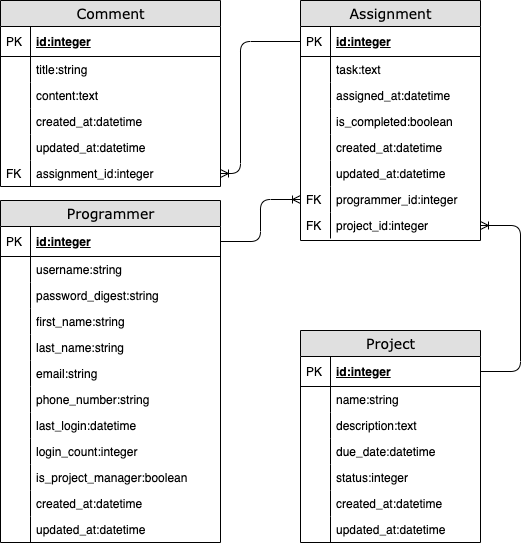
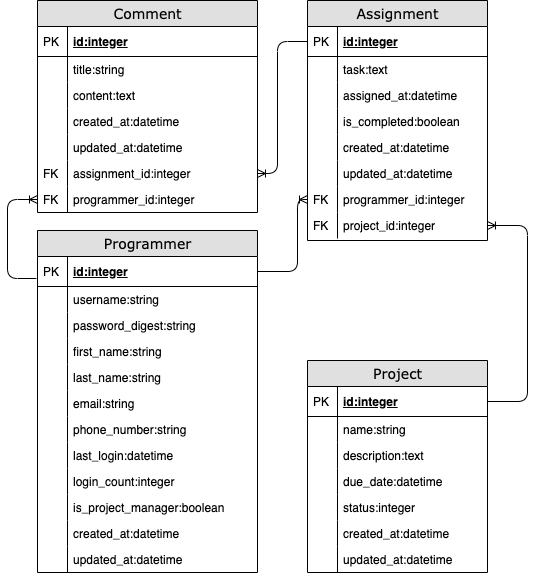
Added feature where anyone can comment on any assignment.

diff --git a/app/controllers/comments_controller.rb b/app/controllers/comments_controller.rb
@@ -8,27 +8,29 @@ class CommentsController < ApplicationController
     def new
         if_not_logged_in_redirect_to_login
 
-        redirect_if_not_current_programmer_or_project_manager(session[:programmer_id])
-
-        does_assignment_exist?(params[:id])
+        does_assignment_exist?(params[:assignment_id])
 
         @assignment = Assignment.find_by_id(params[:assignment_id])
-        @comment = Comment.new(assignment_id: params[:assignment_id])
+        @comment = @assignment.comments.new
     end
 
     def create
         if_not_logged_in_redirect_to_login
 
-        redirect_if_not_current_programmer_or_project_manager(session[:programmer_id])
-
-        assignment = current_programmer.assignments.find_by_id(params[:assignment_id])
-        comment = Comment.new(comment_params)
-        
-        comment[:assignment_id] = assignment.id
+        assignment = Assignment.find_by_id(params[:assignment_id])
+        comment = assignment.comments.new(comment_params)
+byebug
+        comment.programmer_id = current_programmer.id
+        # temp_id_holder = assignment.programmer_id
+        # assignment.update_attribute(:programmer_id, session[:programmer_id])
+        # assignment.programmer_id = session[:programmer_id]
+        # comment[:assignment_id] = assignment.id
 
         if comment.valid?
             comment.save
 
+            # assignment.update_attribute(:programmer_id, temp_id_holder)
+byebug
             redirect_to assignment_comments_path(comment.assignment_id) #@comment 
         else
             render :new
@@ -83,6 +85,6 @@ class CommentsController < ApplicationController
     private
 
     def comment_params
-        params.require(:comment).permit(:title, :content, :assignment_id)
+        params.require(:comment).permit(:title, :content, :assignment_id, :programmer_id)
     end
 end

diff --git a/db/schema.rb b/db/schema.rb
@@ -10,7 +10,7 @@
 #
 # It's strongly recommended that you check this file into your version control system.
 
-ActiveRecord::Schema.define(version: 2020_10_01_105556) do
+ActiveRecord::Schema.define(version: 2020_10_04_144743) do
 
   create_table "assignments", force: :cascade do |t|
     t.text "task"
@@ -28,6 +28,7 @@ ActiveRecord::Schema.define(version: 2020_10_01_105556) do
     t.datetime "updated_at", precision: 6, null: false
     t.integer "assignment_id"
     t.string "title"
+    t.integer "programmer_id"
   end
 
   create_table "programmers", force: :cascade do |t|

diff --git a/app/controllers/assignments_controller.rb b/app/controllers/assignments_controller.rb
@@ -30,12 +30,10 @@ class AssignmentsController < ApplicationController
     def show
         if_not_logged_in_redirect_to_login
 
-        redirect_if_not_current_programmer_or_project_manager(session[:programmer_id])
-
         does_assignment_exist?(params[:id])
-
-        find_assignment
-
+byebug
+        # find_assignment
+        @assignment = Assignment.find_by_id(params[:id])
         @comments = @assignment.comments.find_by_id(params[:id])
     end
 

diff --git a/app/controllers/application_controller.rb b/app/controllers/application_controller.rb
@@ -40,7 +40,7 @@ class ApplicationController < ActionController::Base
     end
 
     def does_assignment_exist?(id)
-        exist = current_programmer.assignments.find_by_id(id)
+        exist = Assignment.find_by_id(id)
 
         if exist == nil
             flash[:dont_exist] = 'No record in database.'

diff --git a/app/models/comment.rb b/app/models/comment.rb
@@ -1,6 +1,11 @@
 class Comment < ApplicationRecord
     belongs_to :assignment
+    belongs_to :programmer
 
     validates :title, presence: true
     validates :content, presence: true
+
+    def full_name
+        self.programmer.first_name + ' ' + self.programmer.last_name
+    end
 end

diff --git a/app/models/programmer.rb b/app/models/programmer.rb
@@ -3,6 +3,7 @@ class Programmer < ApplicationRecord
     
     has_many :assignments
     has_many :projects, through: :assignments
+    has_many :comments
 
     validates :username, :email, presence: true, uniqueness: true
     validates :password, :first_name, :last_name, presence: true

diff --git a/db/migrate/20201004144743_add_programmer_id_to_comments.rb b/db/migrate/20201004144743_add_programmer_id_to_comments.rb
@@ -1,0 +1,5 @@
+class AddProgrammerIdToComments < ActiveRecord::Migration[6.0]
+  def change
+    add_column :comments, :programmer_id, :integer
+  end
+end
